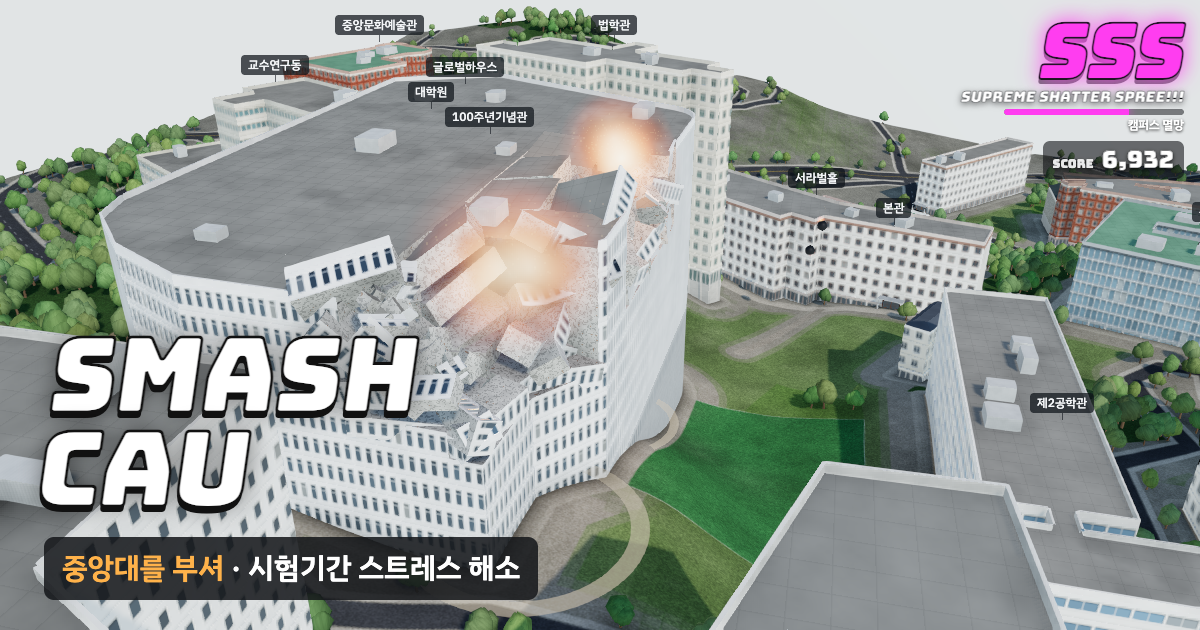
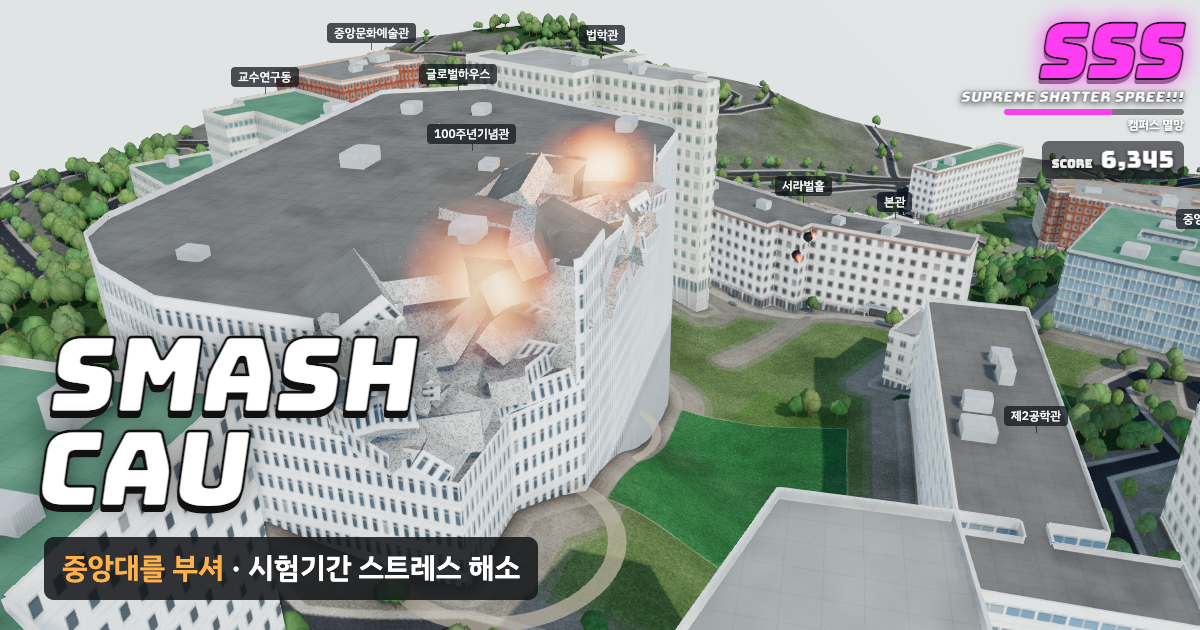
지붕 기본값: 가짜 경사 지붕 끄고 회색·흰색 지붕 위주로, README 파이프라인 정리
- 위성사진과 비교해 보니 무작위 재질로 고른 경사 지붕이 실제로는 평지붕인 곳에 생겨서, 경사 지붕은
  config look의 hip: true 건물에만 얹음. 평지붕은 회색·흰색 위주에 초록 방수 도장은 다섯에 하나꼴
- 지붕 색은 look.roof → 데이터의 rc(항공영상에서 잰 색) → 기본값 순서로 고름
- README '만든 방법'을 이번 구조에 맞추고 출처(건축물대장 층수, 사진 참고 색)를 적음, 점수 간격 3분으로 바로잡음
- og.png·card.webp 다시 찍음

diff --git a/src/app.html b/src/app.html
@@ -868,8 +868,8 @@ const STYLE = {
   dorm:     { wall: '#dccdb2', glass: '#2c343c', roof: '#8a857c', frame: '#f1ece2', bay: 2.4, winW: 0.46, winH: 0.46, sill: 0.32, brick: 0, gr: 0.14 },
 };
 const NODOOR = -1e5;
-// Korean flat roofs are mostly painted with green urethane waterproofing; pitched roofs get slate, copper or clay
-const ROOF_FLAT = ['#6b977a', '#679277', '#8e8c86', '#719c80', '#8a8780'];
+// flat roofs seen from the air are mostly grey or pale concrete; about one in five carries green urethane waterproofing
+const ROOF_FLAT = ['#8e8c86', '#a3a19a', '#7f7d77', '#b4b2ab', '#6b977a', '#96948d', '#8a8780', '#adaba4', '#719c80', '#9b9993'];
 const ROOF_HIP = { brick: ['#4c535c', '#8c5240'], stone: ['#5a8676', '#4c535c'], tan: ['#8c5240', '#5a8676'] };
 function patchBuilding(sh) {
   Object.assign(sh.uniforms, this.userData.u, QU, NIGHT);
@@ -1053,7 +1053,8 @@ function makeMaterial(b) {
   const st = { ...STYLE[b.style] };
   for (const k of ['wall', 'glass', 'frame', 'bay', 'winW', 'winH', 'sill', 'brick']) if (lk[k] !== undefined) st[k] = lk[k];
   const h = hashStr(b.id + 'roof');
-  const roof = lk.roof || (b.hip ? (ROOF_HIP[b.style] || ROOF_HIP.stone)[h % 2] : ROOF_FLAT[h % ROOF_FLAT.length]);
+  // roof colour: a photo-checked look first, then the colour measured on aerial imagery (data rc), then a stable guess
+  const roof = lk.roof || b.rc || (b.hip ? (ROOF_HIP[b.style] || ROOF_HIP.stone)[h % 2] : ROOF_FLAT[h % ROOF_FLAT.length]);
   const m = new THREE.MeshStandardMaterial({ roughness: 0.88, metalness: 0, envMapIntensity: 0.7 });
   m.userData.u = {
     uWall: { value: new THREE.Color(st.wall) }, uGlass: { value: new THREE.Color(st.glass) }, uRoof: { value: new THREE.Color(roof) },
@@ -1237,10 +1238,9 @@ function insetRing(r, d) {
 function planHip(nb) {
   const floors = nb.lv || Math.round(nb.h / nb.fh), lk = lookOf(nb) || {};
   if (nb.ho.length || lk.hip === false) return null;
-  if (lk.hip !== true) {
-    if (floors > 4 || nb.h > 18 || !ROOF_HIP[nb.style]) return null;
-    if (nb.style === 'tan' && hashStr(nb.id + 'hip') % 2) return null;
-  }
+  // a pitched roof only where a photo showed one: guessing from the random facade style put clay roofs on flat-roofed campuses
+  if (lk.hip !== true) return null;
+  if (!ROOF_HIP[nb.style] && !lk.roof) return null;
   const c = Math.cos(nb.theta), s = Math.sin(nb.theta);
   let u0 = Infinity, u1 = -Infinity, w0 = Infinity, w1 = -Infinity;
   for (const p of nb.solid) { const u = p.x * c + p.z * s, w = -p.x * s + p.z * c; u0 = Math.min(u0, u); u1 = Math.max(u1, u); w0 = Math.min(w0, w); w1 = Math.max(w1, w); }

diff --git a/site/index.html b/site/index.html
@@ -893,8 +893,8 @@ const STYLE = {
   dorm:     { wall: '#dccdb2', glass: '#2c343c', roof: '#8a857c', frame: '#f1ece2', bay: 2.4, winW: 0.46, winH: 0.46, sill: 0.32, brick: 0, gr: 0.14 },
 };
 const NODOOR = -1e5;
-// Korean flat roofs are mostly painted with green urethane waterproofing; pitched roofs get slate, copper or clay
-const ROOF_FLAT = ['#6b977a', '#679277', '#8e8c86', '#719c80', '#8a8780'];
+// flat roofs seen from the air are mostly grey or pale concrete; about one in five carries green urethane waterproofing
+const ROOF_FLAT = ['#8e8c86', '#a3a19a', '#7f7d77', '#b4b2ab', '#6b977a', '#96948d', '#8a8780', '#adaba4', '#719c80', '#9b9993'];
 const ROOF_HIP = { brick: ['#4c535c', '#8c5240'], stone: ['#5a8676', '#4c535c'], tan: ['#8c5240', '#5a8676'] };
 function patchBuilding(sh) {
   Object.assign(sh.uniforms, this.userData.u, QU, NIGHT);
@@ -1262,10 +1262,9 @@ function insetRing(r, d) {
 function planHip(nb) {
   const floors = nb.lv || Math.round(nb.h / nb.fh), lk = lookOf(nb) || {};
   if (nb.ho.length || lk.hip === false) return null;
-  if (lk.hip !== true) {
-    if (floors > 4 || nb.h > 18 || !ROOF_HIP[nb.style]) return null;
-    if (nb.style === 'tan' && hashStr(nb.id + 'hip') % 2) return null;
-  }
+  // a pitched roof only where a photo showed one: guessing from the random facade style put clay roofs on flat-roofed campuses
+  if (lk.hip !== true) return null;
+  if (!ROOF_HIP[nb.style] && !lk.roof) return null;
   const c = Math.cos(nb.theta), s = Math.sin(nb.theta);
   let u0 = Infinity, u1 = -Infinity, w0 = Infinity, w1 = -Infinity;
   for (const p of nb.solid) { const u = p.x * c + p.z * s, w = -p.x * s + p.z * c; u0 = Math.min(u0, u); u1 = Math.max(u1, u); w0 = Math.min(w0, w); w1 = Math.max(w1, w); }

diff --git a/README.md b/README.md
@@ -33,7 +33,7 @@
 
 ## 학교 랭킹과 방문 통계
 
-- 게임에서 얻은 점수는 30초마다 학교 점수로 모이고, 화면 오른쪽 위 점수 아래에 우리 학교의 오늘 전국 순위와 바로 윗 순위까지 남은 점수가 나옵니다. 전체 순위는 [SMASH 대학교](https://hong-iron.github.io/SMASH/#rank)에서 볼 수 있습니다. 오늘 순위는 매일 자정(한국 시간)에 새로 시작합니다.
+- 게임에서 얻은 점수는 3분마다(페이지를 떠날 때는 바로) 학교 점수로 모이고, 화면 오른쪽 위 점수 아래에 우리 학교의 오늘 전국 순위와 바로 윗 순위까지 남은 점수가 나옵니다. 전체 순위는 [SMASH 대학교](https://hong-iron.github.io/SMASH/#rank)에서 볼 수 있습니다. 오늘 순위는 매일 자정(한국 시간)에 새로 시작합니다.
 - 랭킹 서버(Supabase)에는 학교 코드, 점수, 무너뜨린 건물 수만 보냅니다. 이름이나 기기 정보는 보내지 않습니다. 너무 자주 보내는 것을 막으려고 IP 주소를 날짜와 섞은 해시로 바꿔 2분 동안만 둡니다.
 - 방문 수는 쿠키를 쓰지 않는 [GoatCounter](https://www.goatcounter.com/)로 셉니다. 공유·응원·다른 학교 버튼을 누른 횟수도 함께 셉니다.
 
@@ -48,21 +48,27 @@
 
 - 건물 모양과 층수, 도로, 녹지: © OpenStreetMap 기여자 (ODbL). `data/campus.json`도 ODbL을 따릅니다.
 - 땅 높이: AWS Terrain Tiles (Mapzen terrarium 형식, SRTM 30 m 기반).
-- 100주년기념관 층수(지상 12층, 지하 6층): 대학저널 2016년 준공 보도.
-- OpenStreetMap에 층수가 없는 건물 6동은 4층으로 어림했습니다.
-- 건물 겉모습(창문, 벽돌, 유리)은 실제 사진이 아니라 코드로 그린 일반 재질입니다.
+- 층수와 높이: 국토교통부 건축물대장(공공데이터포털 건축HUB, 서울 동작구 흑석동 221)에서 이름이 맞는 11동을 가져왔습니다. 블루미르홀 두 동은 대장의 '학생기숙사'(15층)와 '학생기숙사 2차'(12층)를 방 수와 건물 크기로 짝지은 추정입니다.
+- 100주년기념관 층수(지상 12층, 지하 6층): 대학저널 2016년 준공 보도. 나머지는 OpenStreetMap 층수이거나, 없으면 4층으로 어림했습니다.
+- 건물 색: 중앙대학교 캠퍼스맵 건물 사진과 위키미디어 공용 사진을 보고 벽·지붕·유리·창틀 색만 골랐습니다. 사진 자체는 쓰지 않습니다. 창문, 벽돌, 유리 무늬는 코드로 그린 일반 재질입니다.
 
 ## 만든 방법
 
-- 같은 방식으로 만든 다른 학교: [SMASH SSU](https://github.com/Hong-Iron/SMASH-SSU), [SMASH SNU](https://github.com/Hong-Iron/SMASH-SNU)
+- 같은 방식으로 만든 다른 학교는 [SMASH 대학교](https://hong-iron.github.io/SMASH/)에서 볼 수 있습니다.
 - 3D는 three.js r160(CDN), 소리는 Web Audio로 합성합니다. 소리 파일은 없습니다.
-- 학교 이름, 주소, 미리보기 문구, 건물별 재질 지정은 `config.json`에 있습니다.
+- 학교 이름, 주소, 미리보기 문구는 `config.json`에 있습니다. 사진을 보고 고른 건물별 색(`look`: 벽·지붕·유리·창틀 색, 창 간격, 경사 지붕 여부)과 건축물대장 조회용 지번(`parcels`)도 `config.json`에 넣을 수 있습니다.
 - 랭킹 서버 주소와 공개 키(`supabaseUrl`, `supabaseKey`), 방문 통계 주소(`goatcounter`)도 `config.json`에 있습니다. 랭킹 서버의 표와 함수는 [SMASH 저장소의 `supabase/`](https://github.com/Hong-Iron/SMASH/tree/main/supabase)에 있습니다.
 - 페이지 만들기: `src/app.html` + `data/campus.json` + `config.json` → `python3 tools/assemble.py` → `site/index.html`
+- 건물 겉모습은 코드가 OpenStreetMap 윤곽과 이름으로 자동으로 꾸밉니다. 평지붕은 회색·흰색 위주에 초록 방수 도장이 다섯에 하나꼴로 섞이고, 경사 지붕은 사진으로 확인해 `config.json`의 `look`에 `hip: true`로 적은 건물에만 얹습니다. 1층은 화강석 기둥과 유리이고, 가장 가까운 도로 쪽 벽에 유리문과 차양이 붙습니다. 창은 벽 안으로 들어가 보이도록 그늘과 굴곡을 넣습니다. 기숙사·연구동·도서관은 이름을 보고 창 모양을 고릅니다.
+- 바닥은 도로와 건물 둘레만 포장하고 나머지 빈 땅은 잔디로 칠합니다. 학교 밖 땅은 학교와 건물 둘레 26 m까지만 남깁니다.
+- PC에서는 구석 음영(N8AO, CDN)을 켭니다. N8AO가 불러오는 postprocessing 라이브러리는 쓰지 않아서 `site/pp-stub.js` 한 줄로 대신합니다. 주소 끝에 `?ao=0`/`?ao=1`을 붙이면 끄고 켜고, `?fps`를 붙이면 화면 위에 프레임 수가 나옵니다.
+- 화면이 멈춰 있으면 1초에 한 번만 다시 그리고, 그림자는 건물이나 조각이 움직일 때만 다시 계산합니다.
+- 미리보기 그림: `site/og.png`(1200×630, 공유 미리보기)를 새로 찍으면 `tools/make_card.py`로 `site/card.webp`(SMASH 대학교 카드용, 600×315)도 다시 만듭니다.
 - 데이터 다시 만들기 (numpy, matplotlib 필요):
   1. `python3 tools/fetch.py way 284355223 raw`
   2. `python3 tools/build_campus.py raw raw/campus_raw.json`
   3. `python3 tools/add_trees.py raw/campus_raw.json data/campus.json`
   4. `python3 tools/fix_terrain.py data/campus.json` — 땅 높이 정리: 높이 자료의 빈칸(음수 값)을 메우고, 높은 건물이 언덕처럼 찍힌 자국을 지우고, 호수와 연못을 평평한 수면으로 맞춥니다.
+  5. (선택) `python3 tools/floors.py` — 국토교통부 건축물대장(공공데이터포털 건축HUB 건축물대장정보 서비스)에서 층수와 높이를 받아 이름이 맞는 건물에 넣습니다. `config.json`의 `parcels`(시군구 코드, 법정동 코드, 번, 지)가 있어야 합니다. 키는 저장소 맨 위 `.env`에 `DATA_GO_KR_KEY=...`로 넣고, `.env`와 받은 `data/floors.json`은 git에 올리지 않습니다. 이름으로 못 맞춘 건물은 `config.json`의 `floorsManual`에 직접 적습니다.
   - 100주년기념관 층수(지상 12층)는 OpenStreetMap에 없어서 지금 `data/campus.json`에만 들어 있습니다. 데이터를 다시 만들면 직접 넣어야 합니다.
 - `main`에 push하면 GitHub Actions가 `site/` 폴더를 GitHub Pages에 올립니다.
